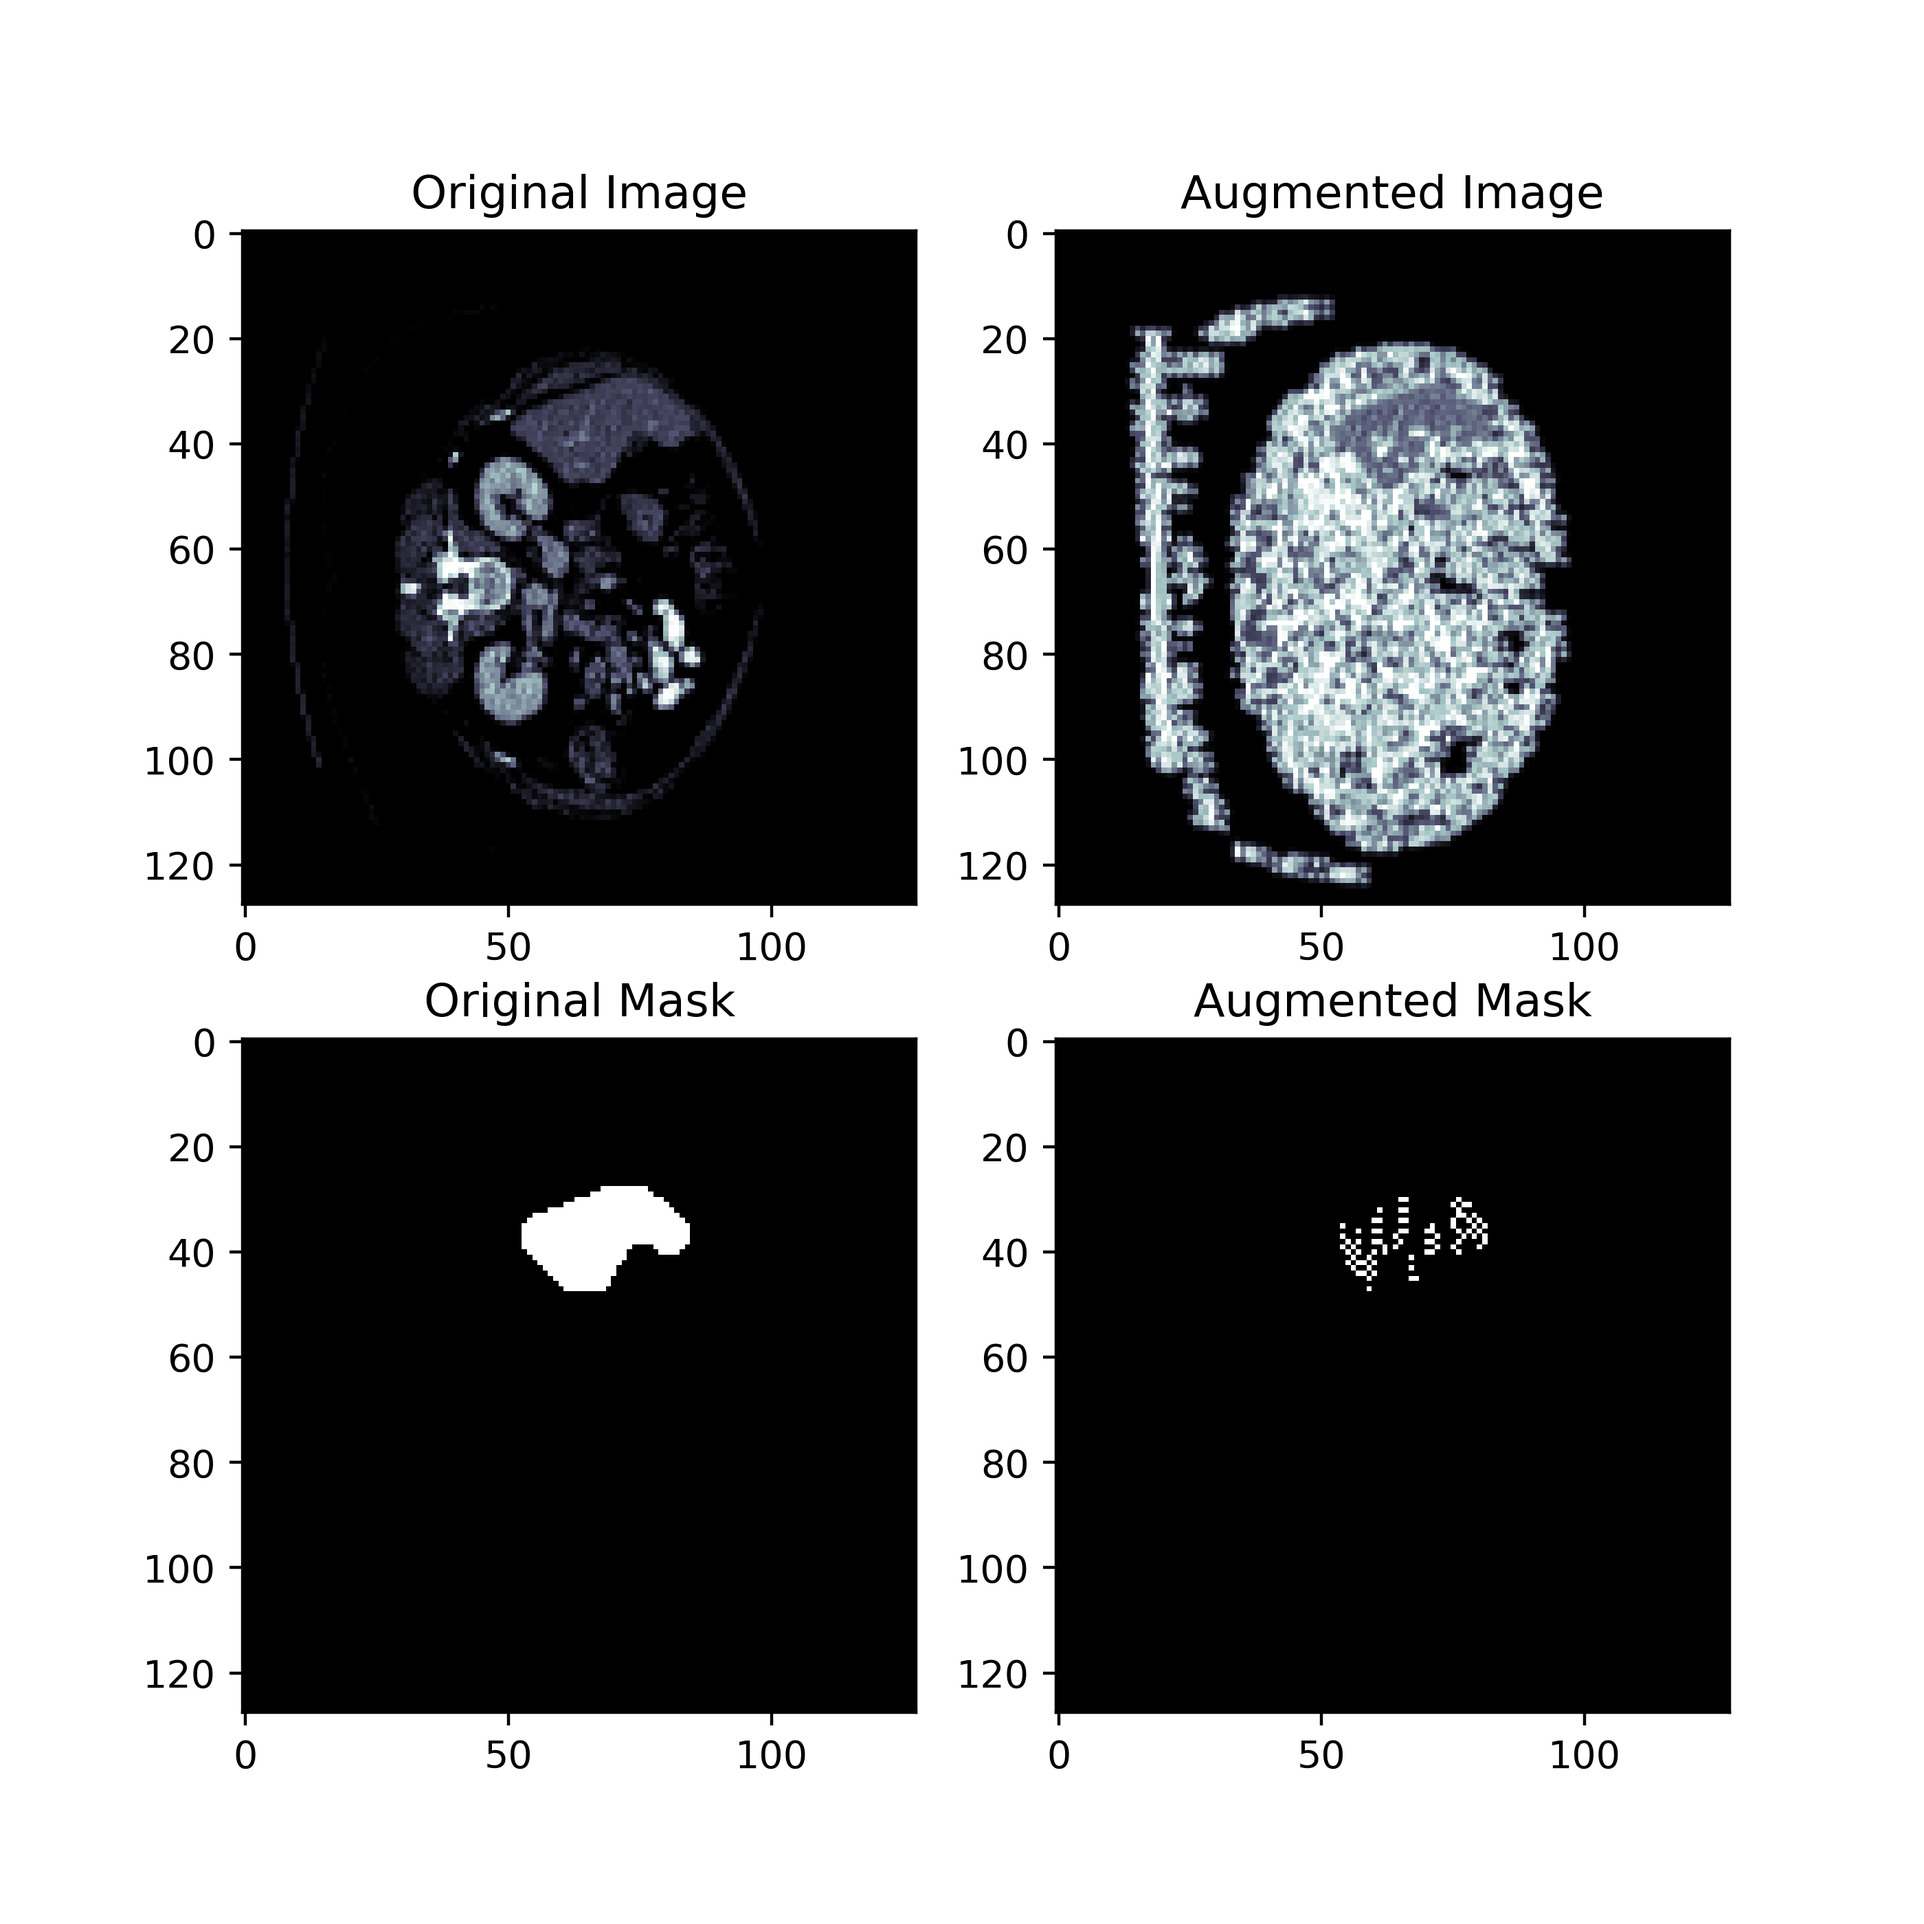
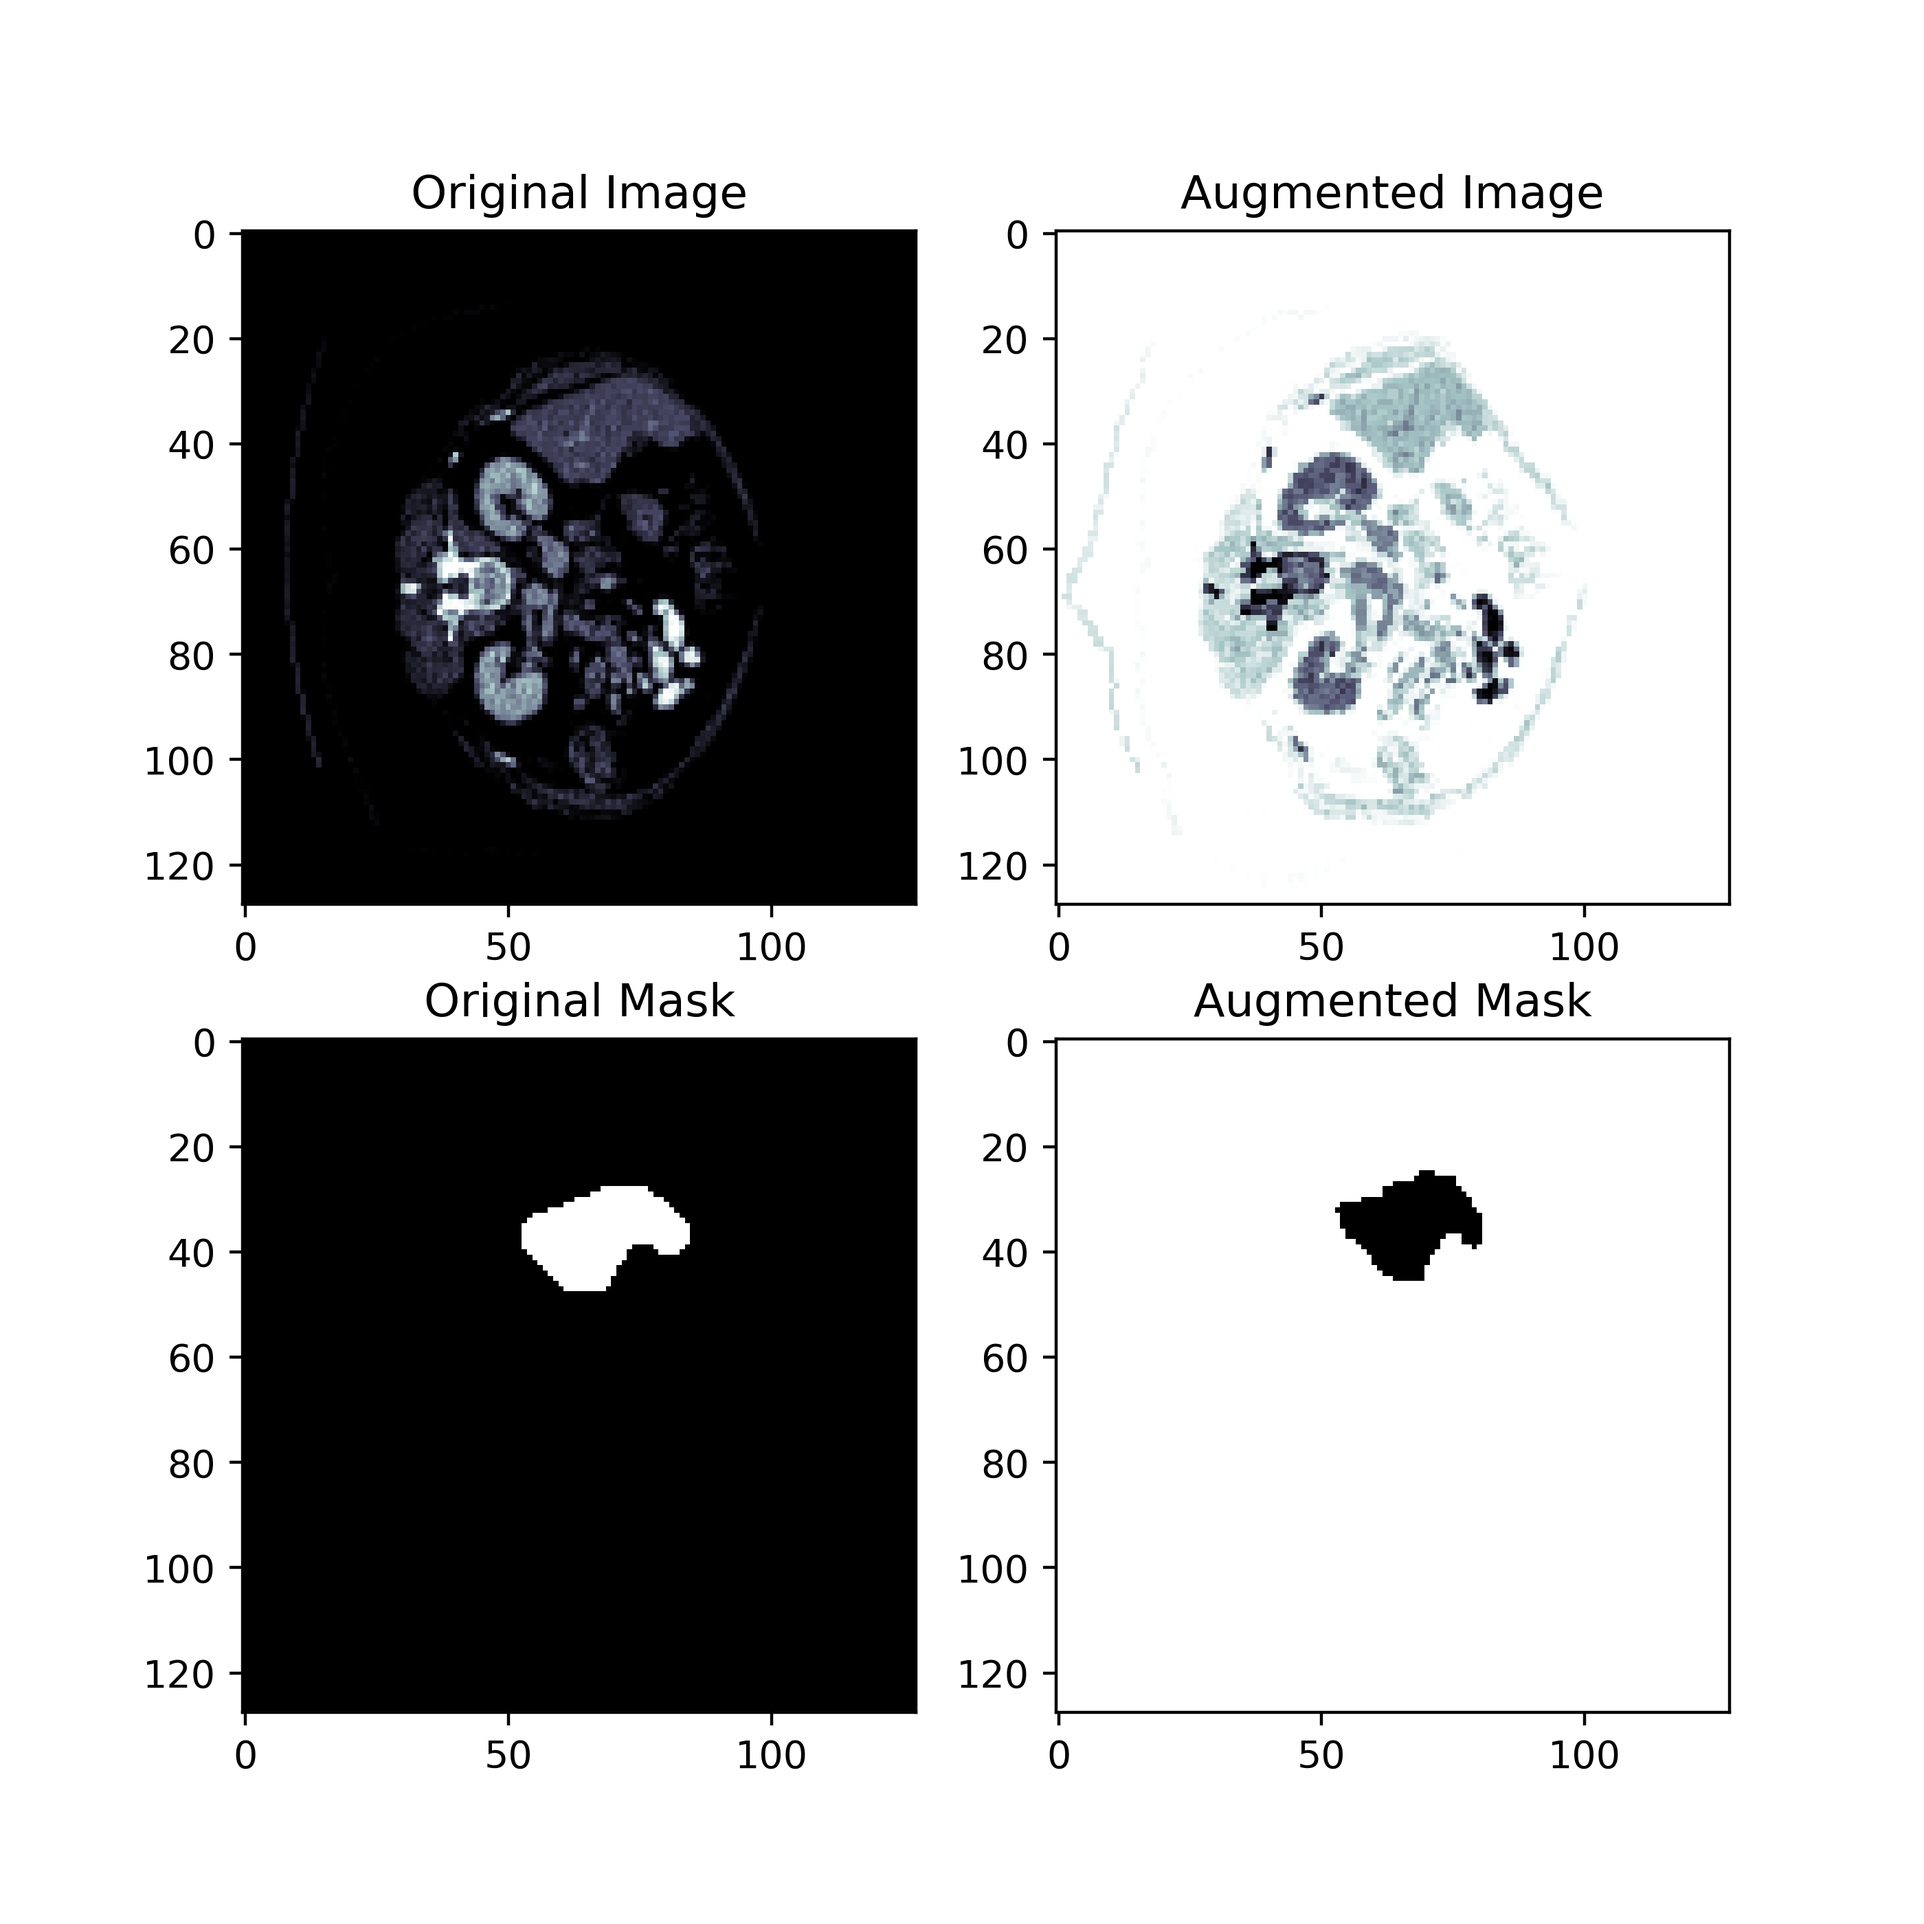
Augmentation pipeline, custom transforms

Changed region(s): [[0.5282, 0.0932, 0.9011, 0.4971], [0.5282, 0.5282, 0.9011, 0.9011]]

diff --git a/src/trainer/LiverTumorDataset.py b/src/trainer/LiverTumorDataset.py
@@ -86,7 +86,7 @@ class LiverTumorDataset(Dataset):
         # assert torch.all(sample['images'] == sample['masks'])
 
         # Visualisation purposes
-        augmentation_diff(slice, sample['images'].numpy().squeeze(), mask, sample['masks_liver'].numpy().squeeze())
+        # augmentation_diff(slice, sample['images'].numpy().squeeze(), mask, sample['masks_liver'].numpy().squeeze())
 
         for key in sample:
             assert sample[key] is not None, \
@@ -230,9 +230,9 @@ if __name__ == '__main__':
 
     """ So this method is basically ready-to-use in training pipeline. Here, it's just for testing. """
     test_batch_size = 8
-    displacement_val = np.random.randn(2, 3, 3) * 5.84
+
     transforms = T.Compose([
-        T.RandomApply([RandomElastic(alpha=2, sigma=0.06)], p=0.85),
+        T.RandomApply([RandomElastic(alpha=0.5, sigma=0.05)], p=0.85),
         T.ToTensor(),
         T.RandomApply([T.RandomAdjustSharpness(sharpness_factor=5.39)], p=0.44),
         T.RandomApply([T.RandomRotation(degrees=3.09)], p=0.59),
